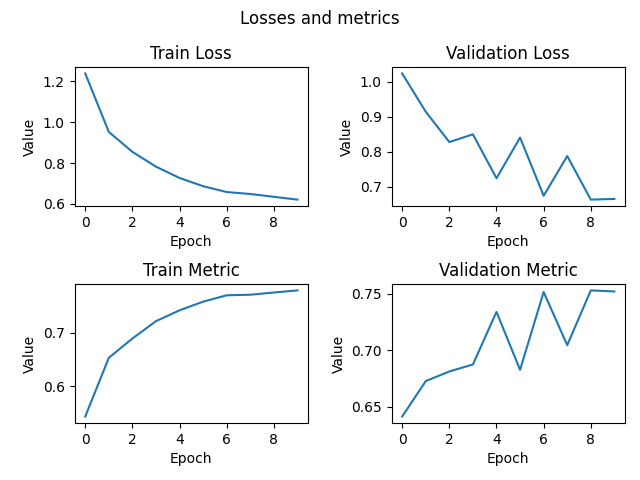
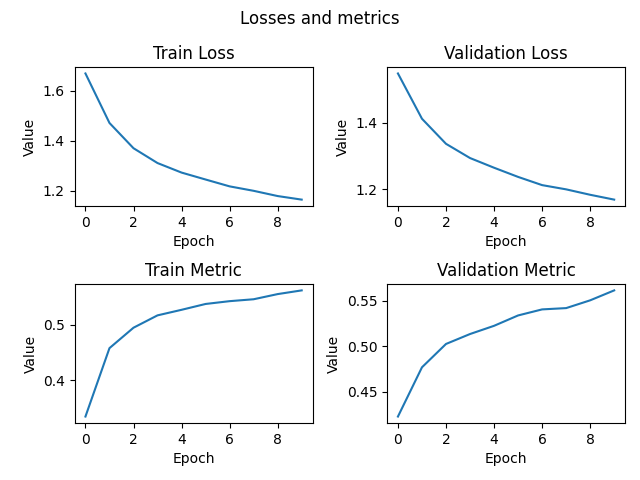
Edit README.md

diff --git a/README.md b/README.md
@@ -63,7 +63,7 @@ https://docs.pytorch.org/vision/stable/models/generated/torchvision.models.effic
 
 | Модель          | Loss | Accuracy |
 | --------------- | ---- | -------- |
-| Бейзлайн        | 0.6  | 0.79     |
+| Бейзлайн        | 1.13 | 0.6      |
 | EfficientNet B3 | 0.21 | 0.93     |
 
 P.S. Реализованный пайплан обучения несколько отличается от того, что был описан
